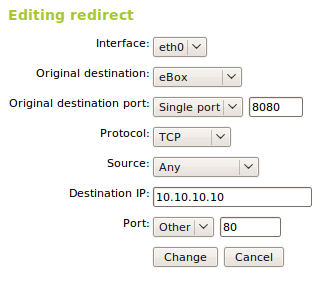
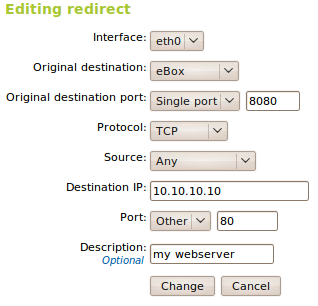
NN: added description to redirects (closes #1582)
git-svn-id: http://svn.zentyal.org/zentyal/trunk@16506 866bc4c1-54da-0310-a958-9d5a9a0e8d04

Changed region(s): [[0.0, 0.0, 0.9906, 0.968]]

diff --git a/docs/en/user/firewall.rst b/docs/en/user/firewall.rst
@@ -145,11 +145,11 @@ easier rule management. Finally, each rule has a
   :guilabel:`Firewall`, it is possible to see whether a rule is working
   properly.
 
-Port redirection
-----------------
+Port forwarding
+---------------
 
 Port redirections (destination NAT) are configured through
-:menuselection:`Firewall --> Redirection`, where an external port
+:menuselection:`Firewall --> Port Forwarding`, where an external port
 can be given and all traffic routed to a host listening on a certain port
 can be redirected by translating the destination address.
 
@@ -162,7 +162,9 @@ a range of ports or a single port), the :guilabel:`protocol`, the
 normal configuration, its value will be *any*), the
 :guilabel:`target IP address` and, finally, the :guilabel:`destination
 port`, where the target host is to receive the requests, which may or
-may not be the same as the original.
+may not be the same as the original. There is also a optional field
+called :guilabel:`description` that is useful to add a comment
+describing the purpose of the rule.
 
 .. image:: images/firewall/07-redirection.png
    :scale: 70

diff --git a/docs/es/user/firewall.rst b/docs/es/user/firewall.rst
@@ -160,13 +160,15 @@ haciendo la traducción de la dirección destino.
 Para configurar una redirección hay que establecer la
 :guilabel:`interfaz` donde se va a hacer la traducción, el
 :guilabel:`destino original` (puede ser eBox, una dirección IP o un
-objeto), el :guilabel:`puerto destino original` (puede ser *cualquiera*, un rango de
-puertos o un único puerto), el :guilabel:`protocolo`, la
+objeto), el :guilabel:`puerto destino original` (puede ser *cualquiera*,
+un rango de puertos o un único puerto), el :guilabel:`protocolo`, la
 :guilabel:`fuente` desde donde se iniciará la conexión (en una
 configuración usual su valor será *cualquiera*), la
 :guilabel:`dirección IP destino` y, finalmente, el :guilabel:`puerto
 destino` donde la máquina destino recibirá las peticiones, que puede
-ser el mismo que el original o no.
+ser el mismo que el original o no. Existe también un campo opcional
+llamado :guilabel:`descripción` que es útil para añadir un comentario
+que describa el propósito de la regla.
 
 .. image:: images/firewall/07-redirection.png
    :scale: 70
